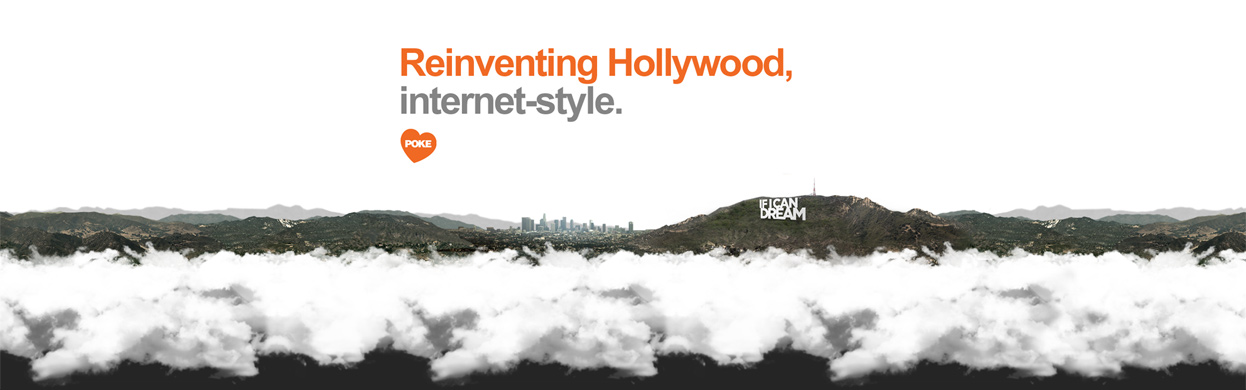
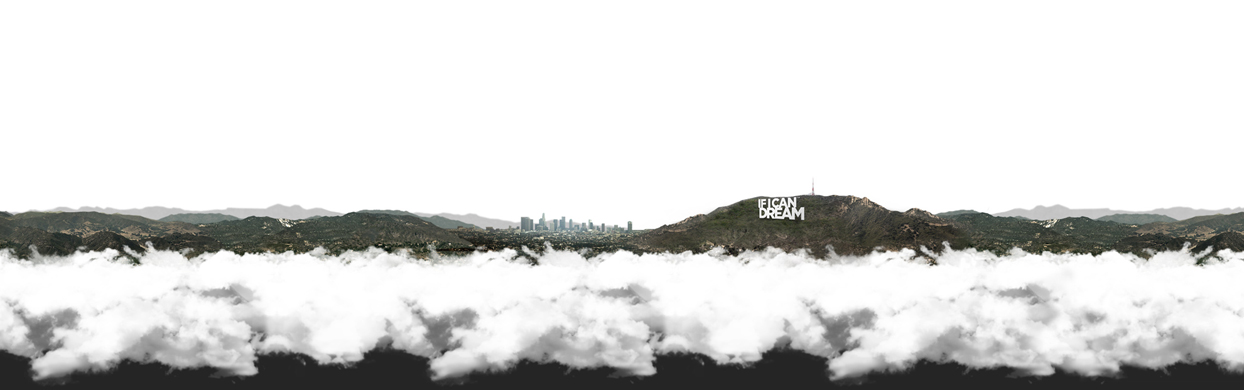
infinitely repeatable background

diff --git a/dream/index.html b/dream/index.html
@@ -23,7 +23,7 @@
 
 		#containerIICDSK {
 			position: relative;
-			top: -240px;
+			margin-top: -245px;
 		}
 
 		#mainImageDreamSK {
@@ -31,13 +31,47 @@
 			background-repeat: no-repeat;
 			width: 100%;
 			height: 783px;
-		} 
-	
+			display: none;
+		}
+
+		#mainImageExtension {
+			background: #fff url(images/extension.jpg) top center;
+			background-repeat: repeat;
+			position: relative;
+			width: 100%;
+			height: 783px;
+		}
+
+		#mainImageCity {
+			position: absolute;
+			left: 50%;
+			margin-left: -1249px;
+			background: url(images/city.png) no-repeat;
+			width: 2498px;
+			height: 783px;
+		}		 
+		
+		#headerDream {
+	    	margin:0 auto; 
+	    	width: 100%;
+			font-size: 55pt;
+			font-weight: bold;
+			color: #848484;
+			line-height: 95%;
+			letter-spacing: -2px;
+			position: relative;
+			top: -693px;
+		}
+
+		.heartSK {
+			margin-top: 18px;
+		}
+			
 	    @media only screen and (min-width: 768px) and (max-width: 959px) {
 	    	
 			#containerIICDSK {
 				position: relative;
-				top: -191px;
+				margin-top: -180px;
 			}
 
 			#mainImageDreamSK {
@@ -45,14 +79,35 @@
 				background-repeat: no-repeat;
 				width: 100%;
 				height: 621px;
+				display: block;
 			}   
+		
+			#mainImageExtension {
+				display: none;
+			}
+		
+			#mainImageCity {
+				display: none;
+			}
+
+			#headerDream {
+		 		font-size: 39pt;
+				top: -550px;
+				left: 10px;
+			}
+		  
+			.heartSK {
+				width: 54px;
+				height: 51px;
+				margin-top: 11px;
+			}
 
 	    }
 	   
 		@media only screen and (max-width: 767px) {
 			#containerIICDSK {
 				position: relative;
-				top: -120px;
+				margin-top: -97px;
 			}
 
 			#mainImageDreamSK {
@@ -60,14 +115,35 @@
 				background-repeat: no-repeat;
 				width: 100%;
 				height: 260px;
-			}   
+				display: block;
+			}
+		
+			#mainImageExtension {
+				display: none;
+			}
+		
+			#mainImageCity {
+				display: none;
+			}
+						   
+			#headerDream {
+				font-size: 18pt;
+				top: -230px;
+				left: 23px;
+				letter-spacing: 0px;
+			}
 			
+			.heartSK {
+				width: 23px;
+				height: 20px;
+				margin-top: 4px;
+			}			
 		}
 
 		@media only screen and (min-width: 480px) and (max-width: 767px) {
 			#containerIICDSK {
 				position: relative;
-				top: -141px;
+				margin-top: -120px;
 			}	
 
 			#mainImageDreamSK {
@@ -75,7 +151,29 @@
 				background-repeat: no-repeat;
 				width: 100%;
 				height: 390px;
-			}   
+				display: block;
+			}
+		
+			#mainImageExtension {
+				display: none;
+			}
+		
+			#mainImageCity {
+				display: none;
+			}
+
+			#headerDream {
+				font-size: 26pt;
+				top: -345px;
+				left: 10px;
+				letter-spacing: -1px;
+			}
+
+			.heartSK {
+				width: 36px;
+				height: 34px;
+				margin-top: 8px;
+			}			   
 		}
 
 	</style>
@@ -259,13 +357,30 @@
 
 <!-- script in body hides address bar on page load on iPhone -->
 <body onload="setTimeout(function() { window.scrollTo(0, 1) }, 100);">
-
+	
+	<header>
+	
+		<div id="mainImageDreamSK"></div>
+	
+		<div id="mainImageExtension">
+			<div id="mainImageCity"></div>
+		</div>
+	
+	</header>
+<!--
 	<header>
 		<div id="mainImageDreamSK"></div>
 	</header>
+-->
+  <div id="container" class="container">
 
-  <div id="containerIICDSK" class="container">
-  <div class="sixteen columns">
+		<div id="headerDream">
+				<a href="#">Re-inventing Hollywood</a>,<br />
+				internet-style.<br />
+				<img src="../images/pokeHeart_transparent.png" alt="pokeHeart_transparent" class="heartSK" />
+		</div>
+
+  <div class="sixteen columns" id="containerIICDSK">
 	<div class="sixteen columns alpha omega"><div id="titleSK"><h1>If I Can Dream</h1></div></div>
 	  	
 		<div class="two-thirds column alpha">
